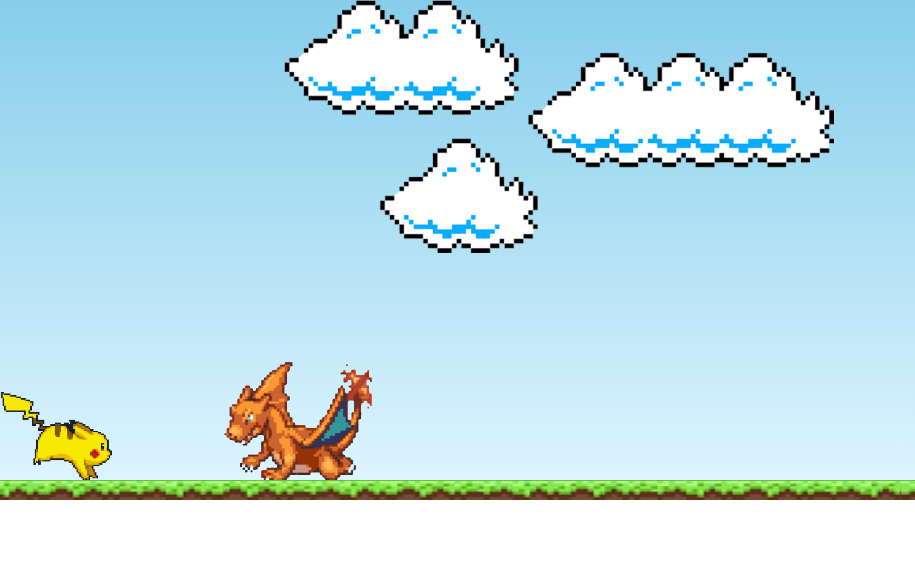
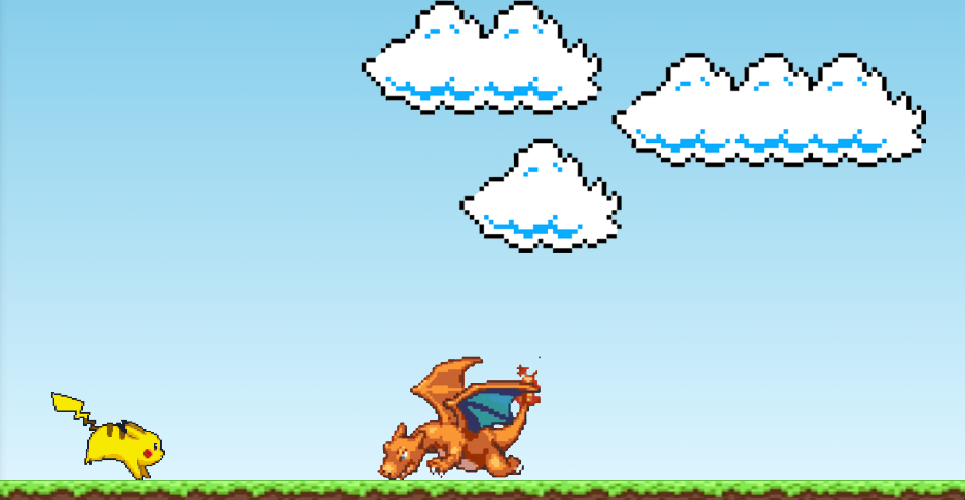
Implementação Botão Reload

diff --git a/js/script.js b/js/script.js
@@ -1,5 +1,6 @@
 const pikachu = document.querySelector('.pikachu');
 const pipe = document.querySelector('.pipe');
+const reload = document.querySelector('.reload');
 
 const jump = () => {
     pikachu.classList.add('jump');
@@ -20,13 +21,54 @@ const loop = setInterval(() => {
         pikachu.style.animation = 'none';
         //mario.style.bottom = `${marioPosition}px`;
 
+        pipe.src = './images/charizardDancing.gif';
+        pipe.style.bottom = '10px';
+
         pikachu.src = './images/pikachuGameOver.png';
         pikachu.style.width = '120px';
         pikachu.style.marginLeft = '50px';
+
+        reload.src = './images/reload.png'
 
         clearInterval(loop);
     }
 
 }, 10);
+
+function gameReload() {
+    pipe.style.animation = 'pipe-animation 1.5s infinite linear';
+    pipe.style.left = '';
+    pipe.src = './images/charizard.gif';
+    pipe.style.bottom = '-15px';
+
+    pikachu.src = './images/pikachu.gif';
+    pikachu.style.animation = '';
+    reload.src = '';
+
+    // const loop = setInterval(() => {
+    //     const pipePosition = pipe.offsetLeft;
+    //     const pikachuPosition = +window.getComputedStyle(pikachu).bottom.replace('px', '');
+    
+    //     if(pipePosition <= 120 && pipePosition > 0 && pikachuPosition < 80) {
+    //         pipe.style.animation = 'none';
+    //         pipe.style.left = `${pipePosition}px`;
+    
+    //         pikachu.style.animation = 'none';
+    //         //mario.style.bottom = `${marioPosition}px`;
+
+    //         pipe.src = './images/charizardDancing.gif';
+    //         pipe.style.bottom = '10px';
+    
+    //         pikachu.src = './images/pikachuGameOver.png';
+    //         pikachu.style.width = '120px';
+    //         pikachu.style.marginLeft = '50px';
+    
+    //         reload.src = './images/reload.png'
+    
+    //         clearInterval(loop);
+    //     }
+    
+    // }, 10);
+}
 
 document.addEventListener('keydown', jump);

diff --git a/index.html b/index.html
@@ -7,7 +7,7 @@
         <link rel="stylesheet" href="./css/style.css">
         <script src="./js/script.js" defer></script>
 
-        <title>Mario Jump</title>
+        <title>Pikachu Jump</title>
     </head>
     <body>
 
@@ -16,6 +16,10 @@
             <img src="./images/pikachu.gif" class="pikachu">
             <img src="./images/clouds.png" class="clouds">
             <img src="./images/grama.jpg" class="grama">
+
+            <a href="#">
+                <img src="" class="reload" onclick="gameReload()">
+            </a>
         </div>
 
     </body>

diff --git a/css/style.css b/css/style.css
@@ -45,6 +45,13 @@
     bottom: -80px;
 }
 
+.reload {
+    position: absolute;
+    width: 150px;
+    left: 50%;
+    top: 40%;
+}
+
 @keyFrames pipe-animation {
     from {
         right: -80px;

diff --git a/README.md b/README.md
@@ -5,10 +5,16 @@ Este projeto consiste na criação de um jogo, baseado no do dinossauro do Chrom
 Nele você controla seu personagem com uma ação de pulo, desviando do obstáculo a sua frente. <br>
 Caso você enconste no obstáculo, você perde.
 
+Melhorias do projeto original:
+<ul>
+  <li>Botão de reload, após perder é possível reiniciar um novo jogo.</li>
+</ul>
+
 # Layout do Projeto
 
 <p align="center">
-  <img width="900" height="450" src="src/assets/to_readme/home.png">
+  <img width="900" height="450" src="images/to_readme/game.png">
+  <img width="900" height="450" src="images/to_readme/gameOver.png">
 </p>
 
 # Tecnologias Utilizadas
